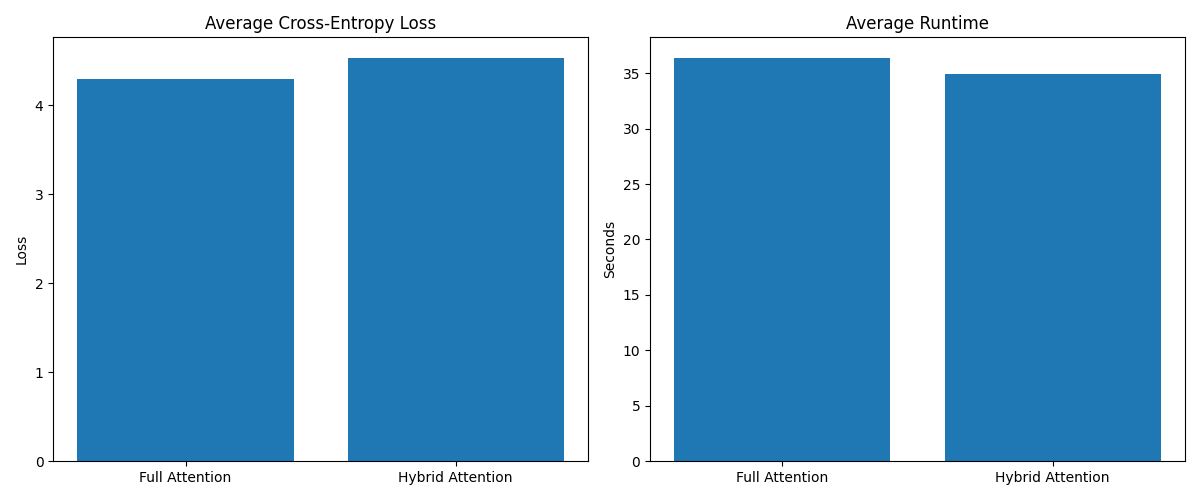
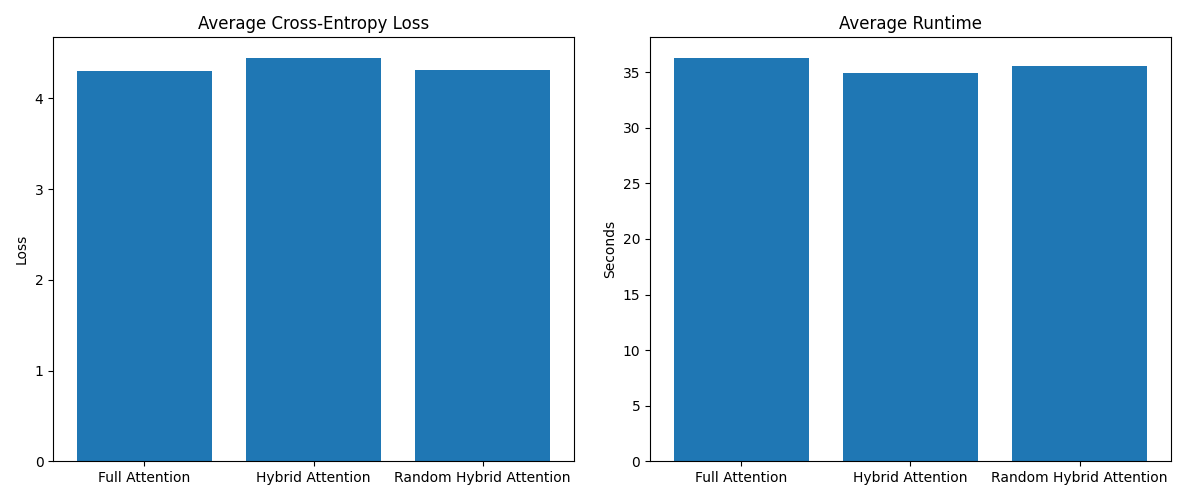
.

diff --git a/longformer_token_prediction.py b/longformer_token_prediction.py
@@ -199,6 +199,67 @@ def predict_next_tokens_hybrid_attention(model, tokenizer, dataset, batch_size=4
     
     return total_loss / len(dataset) * batch_size, runtime
 
+def predict_next_tokens_random_hybrid_attention(model, tokenizer, dataset, random_hybrid_ratio=0.8, batch_size=4):
+    """
+    Predict next tokens using Longformer with random hybrid attention:
+    - Local attention to the last local_window tokens
+    - Global attention to a random subset of tokens (0.8 probability)
+    
+    """
+    dataloader = torch.utils.data.DataLoader(dataset, batch_size=batch_size, shuffle=False)
+    
+    # Move model to GPU if available
+    device = torch.device("cuda" if torch.cuda.is_available() else "cpu")
+    model = model.to(device)
+    
+    total_loss = 0
+    total_tokens = 0
+    start_time = time.time()
+    
+    # Process each batch
+    
+    for batch in tqdm(dataloader, desc="Hybrid Attention"):
+        # Move inputs to device
+        input_ids = batch["input_ids"].to(device)
+        labels = batch["label"].to(device)
+        speaker_mask = batch["speaker_mask"].to(device)
+        
+        # Ensure input_ids has shape [batch_size, seq_length]
+        if input_ids.dim() == 1:
+            input_ids = input_ids.unsqueeze(0)  # Add batch dimension
+        
+        # Ensure labels has shape [batch_size]
+        if labels.dim() == 0:
+            labels = labels.unsqueeze(0)  # Add batch dimension
+        
+        attention_mask = (input_ids != tokenizer.pad_token_id).long()
+
+        # Create global attention mask
+        # 1 for tokens with global attention, 0 for tokens with local attention
+        global_attention_mask = (torch.rand(input_ids.shape, device=input_ids.device) < random_hybrid_ratio).int()
+        global_attention_mask[:,-1]=1 
+        
+        # Forward pass
+        with torch.no_grad():
+            outputs = model(
+                input_ids=input_ids,
+                attention_mask=attention_mask,
+                global_attention_mask=global_attention_mask,
+                labels=labels
+            )
+        
+        # Get loss
+        loss = outputs.loss.item()
+        total_loss += loss #* input_ids.size(0)
+        #total_tokens += input_ids.size(0)
+    
+    # Calculate runtime
+    runtime = time.time() - start_time
+    
+    # Calculate average loss
+    #avg_loss = total_loss / total_tokens
+    
+    return total_loss / len(dataset) * batch_size, runtime
 def obtain_predictions(model, tokenizer, dataset, max_length=300, local_window=100, batch_size=1):
     """
     Obtain predictions using both full attention and hybrid attention.
@@ -225,7 +286,12 @@ def obtain_predictions(model, tokenizer, dataset, max_length=300, local_window=1
         model, tokenizer, dataset, batch_size
     )
     
-    return (full_loss, full_runtime), (hybrid_loss, hybrid_runtime)
+    # Process with random hybrid attention
+    random_hybrid_loss, random_hybrid_runtime = predict_next_tokens_random_hybrid_attention(
+        model, tokenizer, dataset, batch_size
+    )
+    
+    return (full_loss, full_runtime), (hybrid_loss, hybrid_runtime), (random_hybrid_loss, random_hybrid_runtime)
 
 def main():
     parser = argparse.ArgumentParser(description="Compare Longformer attention strategies")
@@ -250,7 +316,7 @@ def main():
     dataset = RandomSubsetDataset(dataset, size=1000)
     # Process each movie
     
-    (full_loss, full_runtime), (hybrid_loss, hybrid_runtime) = obtain_predictions(
+    (full_loss, full_runtime), (hybrid_loss, hybrid_runtime), (random_hybrid_loss, random_hybrid_runtime) = obtain_predictions(
         model, tokenizer, dataset, args.max_length, args.local_window, args.batch_size
     )
     
@@ -260,19 +326,22 @@ def main():
     print(f"Hybrid Attention - Average Loss: {hybrid_loss:.4f}, Average Runtime: {hybrid_runtime:.4f}s")
     print(f"Runtime Improvement: {(full_runtime - hybrid_runtime) / full_runtime * 100:.2f}%")
     print(f"Loss Difference: {hybrid_loss - full_loss:.4f}")
+    print(f"Random Hybrid Attention - Average Loss: {random_hybrid_loss:.4f}, Average Runtime: {random_hybrid_runtime:.4f}s")
+    print(f"Runtime Improvement: {(full_runtime - random_hybrid_runtime) / full_runtime * 100:.2f}%")
+    print(f"Loss Difference: {random_hybrid_loss - full_loss:.4f}")
     
     # Plot results
     plt.figure(figsize=(12, 5))
     
     # Plot losses
     plt.subplot(1, 2, 1)
-    plt.bar(["Full Attention", "Hybrid Attention"], [full_loss, hybrid_loss])
+    plt.bar(["Full Attention", "Hybrid Attention", "Random Hybrid Attention"], [full_loss, hybrid_loss, random_hybrid_loss])
     plt.title("Average Cross-Entropy Loss")
     plt.ylabel("Loss")
     
     # Plot runtimes
     plt.subplot(1, 2, 2)
-    plt.bar(["Full Attention", "Hybrid Attention"], [full_runtime, hybrid_runtime])
+    plt.bar(["Full Attention", "Hybrid Attention", "Random Hybrid Attention"], [full_runtime, hybrid_runtime, random_hybrid_runtime])
     plt.title("Average Runtime")
     plt.ylabel("Seconds")
     
